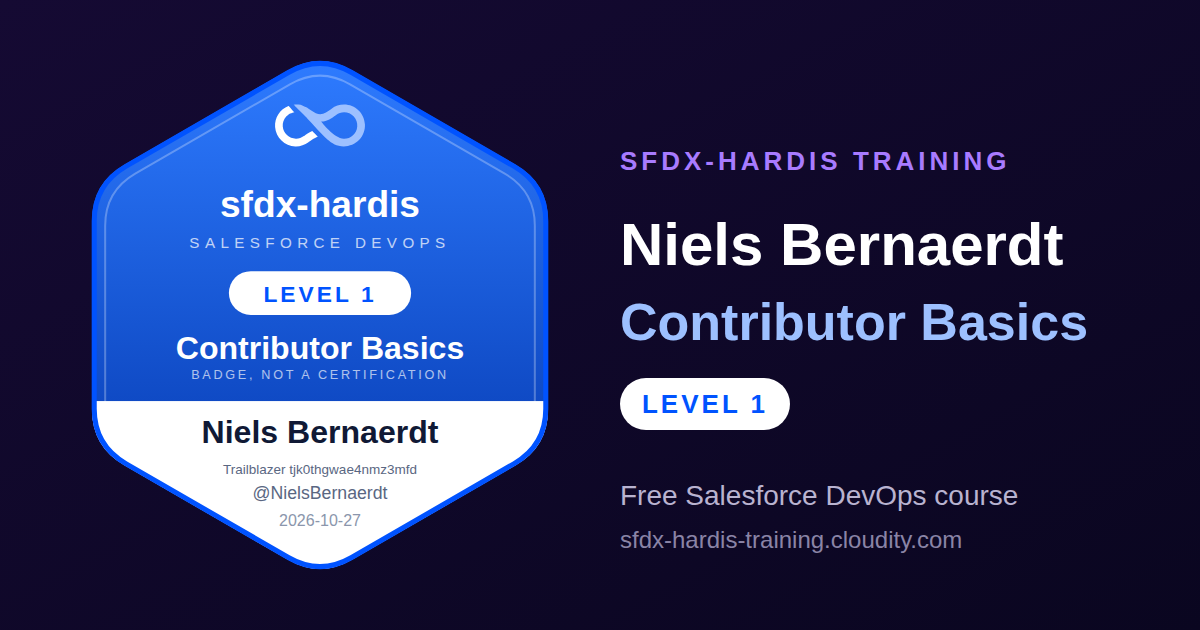
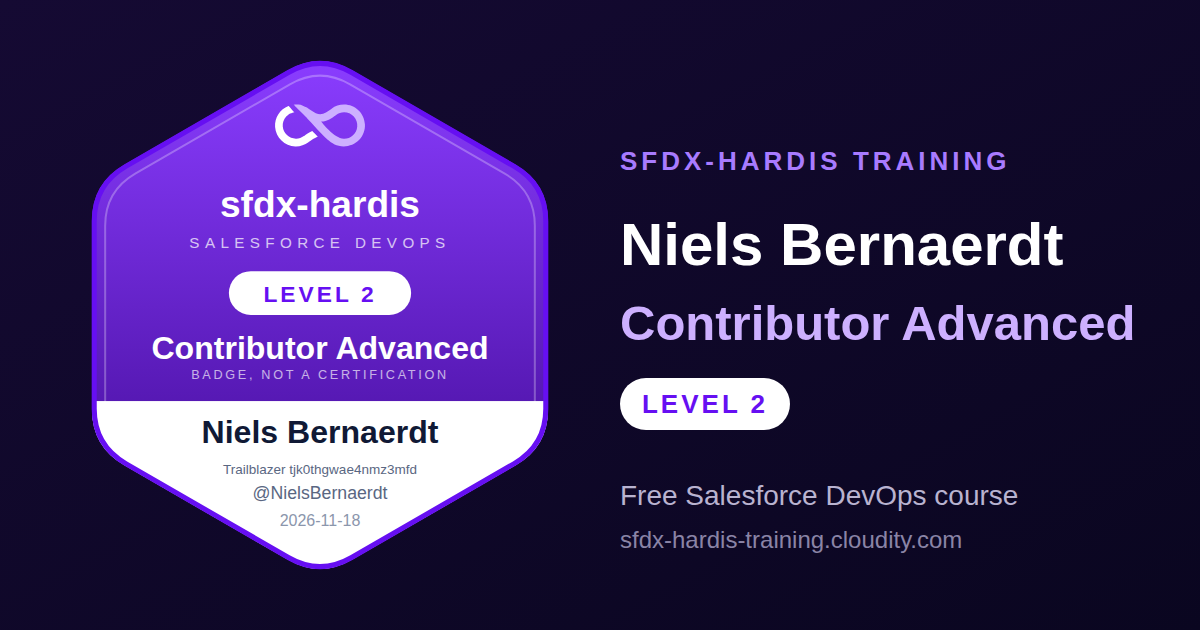
badge: level 2 for tjk0thgwae4nmz3mfd (NielsBernaerdt)

diff --git a/STATS.md b/STATS.md
@@ -2,7 +2,7 @@
 
 # Course statistics
 
-Read every Monday and after every badge awarded, from the public repositories of the 116 learners who set up the course, and from the badges they claimed.
+Read every Monday and after every badge awarded, from the public repositories of the 117 learners who set up the course, and from the badges they claimed.
 Last update: 2026-11-18.
 
 ## Started and completed
@@ -11,9 +11,9 @@ A level is started when its first branch exists in the learner's repository, and
 
 | Level | Started | Share of learners | Completed | Share of started |
 |---|---|---|---|---|
-| Level 1 - Contributor basics | 114 | 98% | 79 | 69% |
-| Level 2 - Contributor advanced | 62 | 53% | 38 | 61% |
-| Level 3 - Release Manager | 39 | 34% | 20 | 51% |
+| Level 1 - Contributor basics | 115 | 98% | 79 | 69% |
+| Level 2 - Contributor advanced | 62 | 53% | 39 | 63% |
+| Level 3 - Release Manager | 39 | 33% | 20 | 51% |
 
 ## Time spent
 
@@ -43,7 +43,7 @@ The median time of the learners who went through, next to the estimate each lab 
 | Lab 2.6 | 25 min | 27 min | 10 min | 40 |
 | Lab 2.7 | 35 min | 46 min | 13 min | 38 |
 | Lab 2.8 | 20 min | 27 min | 7 min | 37 |
-| Lab 2.9 | 30 min | 48 min | 12 min | 38 |
+| Lab 2.9 | 30 min | 51 min | 19 min | 38 |
 
 ### Level 3 - Release Manager
 
@@ -70,15 +70,15 @@ From the learners who ran **Check my work** at the end of each lab: their receip
 | Lab 1.5 | 20 min | 16 min | 5 min | 42 |
 | Lab 1.6 | 20 min | 19 min | 5 min | 41 |
 | Lab 1.7 | 25 min | 27 min | 7 min | 44 |
-| Lab 2.1 | 15 min | 35 min | 12 min | 18 |
-| Lab 2.2 | 25 min | 35 min | 17 min | 18 |
-| Lab 2.3 | 30 min | 42 min | 15 min | 18 |
-| Lab 2.4 | 30 min | 1 h 08 | 20 min | 18 |
-| Lab 2.5 | 30 min | 25 min | 9 min | 18 |
-| Lab 2.6 | 25 min | 28 min | 10 min | 18 |
-| Lab 2.7 | 35 min | 42 min | 22 min | 18 |
-| Lab 2.8 | 20 min | 25 min | 10 min | 18 |
-| Lab 2.9 | 30 min | 47 min | 19 min | 18 |
+| Lab 2.1 | 15 min | 37 min | 12 min | 19 |
+| Lab 2.2 | 25 min | 34 min | 17 min | 19 |
+| Lab 2.3 | 30 min | 42 min | 15 min | 19 |
+| Lab 2.4 | 30 min | 1 h 10 | 20 min | 19 |
+| Lab 2.5 | 30 min | 26 min | 9 min | 19 |
+| Lab 2.6 | 25 min | 26 min | 10 min | 19 |
+| Lab 2.7 | 35 min | 43 min | 22 min | 19 |
+| Lab 2.8 | 20 min | 27 min | 10 min | 19 |
+| Lab 2.9 | 30 min | 48 min | 19 min | 19 |
 | Lab 3.1 | 50 min | 1 h 39 | 26 min | 14 |
 | Lab 3.2 | 25 min | 26 min | 12 min | 15 |
 | Lab 3.3 | 45 min | 1 h 15 | 22 min | 15 |

diff --git a/labs/fr/level-2-contributor-advanced/index.md b/labs/fr/level-2-contributor-advanced/index.md
@@ -4,7 +4,7 @@ description: "Affrontez ce que les vraies livraisons Salesforce vous envoient : 
 id: l2-home
 level: 2
 lang: fr
-source_rev: "e197c91bfce4f8e9d21bdf4f83ea3dda7676717a"
+source_rev: "8eecb2a0de8e67197b716ea2938333bb378b8eda"
 ---
 
 # Niveau 2 - Contributeur Salesforce DevOps avancé
@@ -34,9 +34,9 @@ jours.
 | Lab                                                                   | Titre                                                                   | Durée  |
 |-----------------------------------------------------------------------|-------------------------------------------------------------------------|--------|
 | [2.1](2-1-backpromote-your-teammates-work.md)                         | Backpromote : remettre votre org de dev au niveau de l'équipe           | 35 min |
-| [2.2](2-2-fix-a-missing-dependency-deployment-error.md)               | Corriger une erreur de déploiement due à une dépendance manquante       | 35 min |
+| [2.2](2-2-fix-a-missing-dependency-deployment-error.md)               | Corriger une erreur de déploiement due à une dépendance manquante       | 30 min |
 | [2.3](2-3-fix-broken-records-with-an-apex-deployment-action.md)       | Réparer des enregistrements cassés avec une deployment action Apex      | 40 min |
-| [2.4](2-4-ship-reference-data-and-a-batch-with-deployment-actions.md) | Livrer des données de référence et un batch avec des deployment actions | 1 h 05 |
+| [2.4](2-4-ship-reference-data-and-a-batch-with-deployment-actions.md) | Livrer des données de référence et un batch avec des deployment actions | 1 h 10 |
 | [2.5](2-5-pass-code-quality-and-apex-test-coverage.md)                | Passer la barrière de qualité de code et la couverture de tests Apex    | 25 min |
 | [2.6](2-6-permission-sets-and-profiles.md)                            | Permission sets, profils, et pourquoi une autorisation disparaît        | 25 min |
 | [2.7](2-7-resolve-a-git-merge-conflict.md)                            | Résoudre un conflit de merge Git avec un collègue                       | 40 min |

diff --git a/labs/en/level-2-contributor-advanced/index.md b/labs/en/level-2-contributor-advanced/index.md
@@ -31,9 +31,9 @@ something breaks, you know where to look and what to do, and you lose minutes in
 | Lab                                                                   | Title                                                   | Time   |
 |-----------------------------------------------------------------------|---------------------------------------------------------|--------|
 | [2.1](2-1-backpromote-your-teammates-work.md)                         | Backpromote: catch your dev org up with the team        | 35 min |
-| [2.2](2-2-fix-a-missing-dependency-deployment-error.md)               | Fix a deployment error caused by a missing dependency   | 35 min |
+| [2.2](2-2-fix-a-missing-dependency-deployment-error.md)               | Fix a deployment error caused by a missing dependency   | 30 min |
 | [2.3](2-3-fix-broken-records-with-an-apex-deployment-action.md)       | Fix broken records with an Apex deployment action       | 40 min |
-| [2.4](2-4-ship-reference-data-and-a-batch-with-deployment-actions.md) | Ship reference data and a batch with deployment actions | 1 h 05 |
+| [2.4](2-4-ship-reference-data-and-a-batch-with-deployment-actions.md) | Ship reference data and a batch with deployment actions | 1 h 10 |
 | [2.5](2-5-pass-code-quality-and-apex-test-coverage.md)                | Pass the code quality gate and Apex test coverage       | 25 min |
 | [2.6](2-6-permission-sets-and-profiles.md)                            | Permission sets, profiles and why a grant disappears    | 25 min |
 | [2.7](2-7-resolve-a-git-merge-conflict.md)                            | Resolve a Git merge conflict with a teammate            | 40 min |

diff --git a/labs/fr/level-2-contributor-advanced/2-1-backpromote-your-teammates-work.md b/labs/fr/level-2-contributor-advanced/2-1-backpromote-your-teammates-work.md
@@ -5,7 +5,7 @@ description: "Votre org de développement est en retard sur integration. Faites-
 level: 2
 lab: 1
 lang: fr
-source_rev: "9cff159c29f579f3ff8de94876a4d70a0870c0dc"
+source_rev: "a045e2d5018a2de6bd5dcd2963660d1af64d1c86"
 screenshots:
   - annotated/vscode/sidebar-commands-custom-menu-2--training-menu
   - annotated/web/github-pr-files
@@ -27,7 +27,7 @@ depends_on:
 
 **Niveau** : 2 Contributeur avancé
 
-**Durée** : ~35 min<!-- observed --> (observé : médiane 35 min, 18 participants, le plus rapide 12 min)<!-- /observed -->
+**Durée** : ~35 min<!-- observed --> (observé : médiane 37 min, 19 participants, le plus rapide 12 min)<!-- /observed -->
 
 **Vous allez** : rapatrier dans votre propre org de dev la story mergée par un collègue, décider
 quoi garder quand l'outil vous le demande, et apprendre ce qu'un backpromote ne fera jamais pour

diff --git a/labs/fr/level-2-contributor-advanced/2-7-resolve-a-git-merge-conflict.md b/labs/fr/level-2-contributor-advanced/2-7-resolve-a-git-merge-conflict.md
@@ -5,7 +5,7 @@ description: "Une collègue a mergé en premier sur le même flow et le même pe
 level: 2
 lab: 7
 lang: fr
-source_rev: "2b7c4314c8838edefda7501329b6d42bfc67cd37"
+source_rev: "e625444e25a2c51940a366cefe56329fe9c91087"
 screenshots:
   - annotated/salesforce/flow-builder-assign-crew
   - annotated/salesforce/flow-builder-assign-crew-full
@@ -30,7 +30,7 @@ depends_on:
 
 **Niveau** : 2 Contributeur avancé
 
-**Durée** : ~40 min<!-- observed --> (observé : médiane 42 min, 18 participants, le plus rapide 22 min)<!-- /observed -->
+**Durée** : ~40 min<!-- observed --> (observé : médiane 43 min, 19 participants, le plus rapide 22 min)<!-- /observed -->
 
 **Vous allez** : affronter un vrai conflit de merge sur deux fichiers qui entrent en conflit de façon
 très différente, et résoudre les deux sans perdre le travail de personne.

diff --git a/labs/fr/level-2-contributor-advanced/2-2-fix-a-missing-dependency-deployment-error.md b/labs/fr/level-2-contributor-advanced/2-2-fix-a-missing-dependency-deployment-error.md
@@ -5,7 +5,7 @@ description: "Modifiez un flow Salesforce existant, puis lisez correctement un c
 level: 2
 lab: 2
 lang: fr
-source_rev: "60791fb57f7be032daae1582b886c3de72642db8"
+source_rev: "d8500171135df82426fb69e2d8a56958cd919ab1"
 screenshots:
   - annotated/vscode/package-xml-filtered
   - annotated/vscode/editor-field-file
@@ -31,7 +31,7 @@ depends_on:
 
 **Niveau** : 2 Contributeur avancé
 
-**Durée** : ~35 min<!-- observed --> (observé : médiane 35 min, 18 participants, le plus rapide 17 min)<!-- /observed -->
+**Durée** : ~30 min<!-- observed --> (observé : médiane 34 min, 19 participants, le plus rapide 17 min)<!-- /observed -->
 
 **Vous allez** : modifier un flow qui tourne déjà en production, rencontrer votre premier contrôle de
 déploiement en échec, lire l'erreur correctement, et trouver ce que votre package a oublié.

diff --git a/labs/fr/level-2-contributor-advanced/2-8-recover-from-committing-the-wrong-metadata.md b/labs/fr/level-2-contributor-advanced/2-8-recover-from-committing-the-wrong-metadata.md
@@ -5,7 +5,7 @@ description: "Vous avez publié bien plus que votre story. Voyez ce que cela fai
 level: 2
 lab: 8
 lang: fr
-source_rev: "d48739167f39ed33b1e66f483f10aa25bef2ebdd"
+source_rev: "9df07928220d4f991fbebe83365b2877fa2e490f"
 screenshots:
   - annotated/vscode/pipeline-cards--new-user-story
   - annotated/vscode/metadata-retriever-recent-changes--pick-rows
@@ -23,7 +23,7 @@ depends_on:
 
 **Niveau** : 2 Contributeur avancé
 
-**Durée** : ~25 min<!-- observed --> (observé : médiane 25 min, 18 participants, le plus rapide 10 min)<!-- /observed -->
+**Durée** : ~25 min<!-- observed --> (observé : médiane 27 min, 19 participants, le plus rapide 10 min)<!-- /observed -->
 
 **Vous allez** : sur-sélectionner exprès au moment de publier, voir ce que cela fait à une Pull
 Request, et apprendre les deux chemins de récupération.

diff --git a/labs/fr/level-2-contributor-advanced/2-5-pass-code-quality-and-apex-test-coverage.md b/labs/fr/level-2-contributor-advanced/2-5-pass-code-quality-and-apex-test-coverage.md
@@ -5,7 +5,7 @@ description: "Corrigez une trouvaille PMD et la couverture de code Apex qui bloq
 level: 2
 lab: 5
 lang: fr
-source_rev: "e7d0a2446c0b2b4151de9d0e4a71a1148036e382"
+source_rev: "46c6f5022ce8ebe539ff576c54b730a6606a5c7f"
 screenshots:
   - annotated/vscode/pipeline-cards--new-user-story
   - annotated/vscode/org-monitoring--apex-tests
@@ -21,7 +21,7 @@ depends_on:
 
 **Niveau** : 2 Contributeur avancé
 
-**Durée** : ~25 min<!-- observed --> (observé : médiane 25 min, 18 participants, le plus rapide 9 min)<!-- /observed -->
+**Durée** : ~25 min<!-- observed --> (observé : médiane 26 min, 19 participants, le plus rapide 9 min)<!-- /observed -->
 
 **Vous allez** : être bloqué deux fois par des robots, corriger les deux correctement plutôt que de
 les contourner, et apprendre à lancer les contrôles avant de pousser.

diff --git a/labs/fr/level-2-contributor-advanced/2-4-ship-reference-data-and-a-batch-with-deployment-actions.md b/labs/fr/level-2-contributor-advanced/2-4-ship-reference-data-and-a-batch-with-deployment-actions.md
@@ -5,7 +5,7 @@ description: "Un déploiement vert n'est pas une fonctionnalité qui marche. Liv
 level: 2
 lab: 4
 lang: fr
-source_rev: "b8809f4b97eeb1827296e6016d7f4b615f2369de"
+source_rev: "0bc5684b3a5da6f7f011bc832a11e6c062aa344b"
 screenshots:
   - annotated/vscode/sidebar-commands-custom-menu-2--lab-records
   - annotated/salesforce/crew-capacity-records
@@ -28,7 +28,7 @@ depends_on:
 
 **Niveau** : 2 Contributeur avancé
 
-**Durée** : ~1 h 05<!-- observed --> (observé : médiane 1 h 08, 18 participants, le plus rapide 20 min)<!-- /observed -->
+**Durée** : ~1 h 10<!-- observed --> (observé : médiane 1 h 10, 19 participants, le plus rapide 20 min)<!-- /observed -->
 
 **Vous allez** : rencontrer la pire espèce d'échec, celle où rien n'échoue, et la corriger avec trois
 deployment actions de trois types différents.

diff --git a/labs/fr/level-2-contributor-advanced/2-6-permission-sets-and-profiles.md b/labs/fr/level-2-contributor-advanced/2-6-permission-sets-and-profiles.md
@@ -5,7 +5,7 @@ description: "Une permission accordée sur un profil s'évapore après un déplo
 level: 2
 lab: 6
 lang: fr
-source_rev: "6bb9d05826efb3328a24a025a54a155e9bc5c48e"
+source_rev: "dd698ede6ab7ae078ccb6195a868d95984ac98b4"
 screenshots:
   - annotated/vscode/pipeline-cards--new-user-story
   - annotated/vscode/pipeline-packages-menu--package-xml
@@ -22,7 +22,7 @@ depends_on:
 
 **Niveau** : 2 Contributeur avancé
 
-**Durée** : ~25 min<!-- observed --> (observé : médiane 28 min, 18 participants, le plus rapide 10 min)<!-- /observed -->
+**Durée** : ~25 min<!-- observed --> (observé : médiane 26 min, 19 participants, le plus rapide 10 min)<!-- /observed -->
 
 **Vous allez** : courir après une permission qui s'évapore entre un déploiement vert et l'org cible,
 et découvrir qu'elle a été retirée exprès.

diff --git a/labs/fr/level-2-contributor-advanced/2-3-fix-broken-records-with-an-apex-deployment-action.md b/labs/fr/level-2-contributor-advanced/2-3-fix-broken-records-with-an-apex-deployment-action.md
@@ -5,7 +5,7 @@ description: "Rendre un champ obligatoire se déploie au vert et casse les enreg
 level: 2
 lab: 3
 lang: fr
-source_rev: "a4ed59101c00cfd9479e4aead29dd6717022f30f"
+source_rev: "8ca4c8565339df0b6d56a2feec9fe1baed63d9c5"
 screenshots:
   - annotated/vscode/pipeline-cards--my-pull-request
   - annotated/vscode/pipeline-cards--new-user-story
@@ -24,7 +24,7 @@ depends_on:
 
 **Niveau** : 2 Contributeur avancé
 
-**Durée** : ~40 min<!-- observed --> (observé : médiane 42 min, 18 participants, le plus rapide 15 min)<!-- /observed -->
+**Durée** : ~40 min<!-- observed --> (observé : médiane 42 min, 19 participants, le plus rapide 15 min)<!-- /observed -->
 
 **Vous allez** : rencontrer un échec qu'aucune correction de métadonnée ne résout, et découvrir
 l'outil qui existe pour cela : une deployment action.

diff --git a/labs/fr/level-2-contributor-advanced/2-9-capstone-deliver-a-user-story-that-has-it-all.md b/labs/fr/level-2-contributor-advanced/2-9-capstone-deliver-a-user-story-that-has-it-all.md
@@ -5,7 +5,7 @@ description: "Livrez une User Story Salesforce avec une dépendance à vérifier
 level: 2
 lab: 9
 lang: fr
-source_rev: "983ef558839c11ce84482df5465c92156f5b3018"
+source_rev: "4b744bb85a103f6619e7ed6a84f69d67e789c684"
 screenshots:
   - annotated/web/github-star-megalinter
 depends_on:
@@ -20,7 +20,7 @@ depends_on:
 
 **Niveau** : 2 Contributeur avancé
 
-**Durée** : ~45 min<!-- observed --> (observé : médiane 47 min, 18 participants, le plus rapide 19 min)<!-- /observed -->
+**Durée** : ~45 min<!-- observed --> (observé : médiane 48 min, 19 participants, le plus rapide 19 min)<!-- /observed -->
 
 **Vous allez** : livrer une story qui contient une dépendance à vérifier, une deployment action de
 données et un collègue qui travaille sur le même permission set, sans pas-à-pas.
